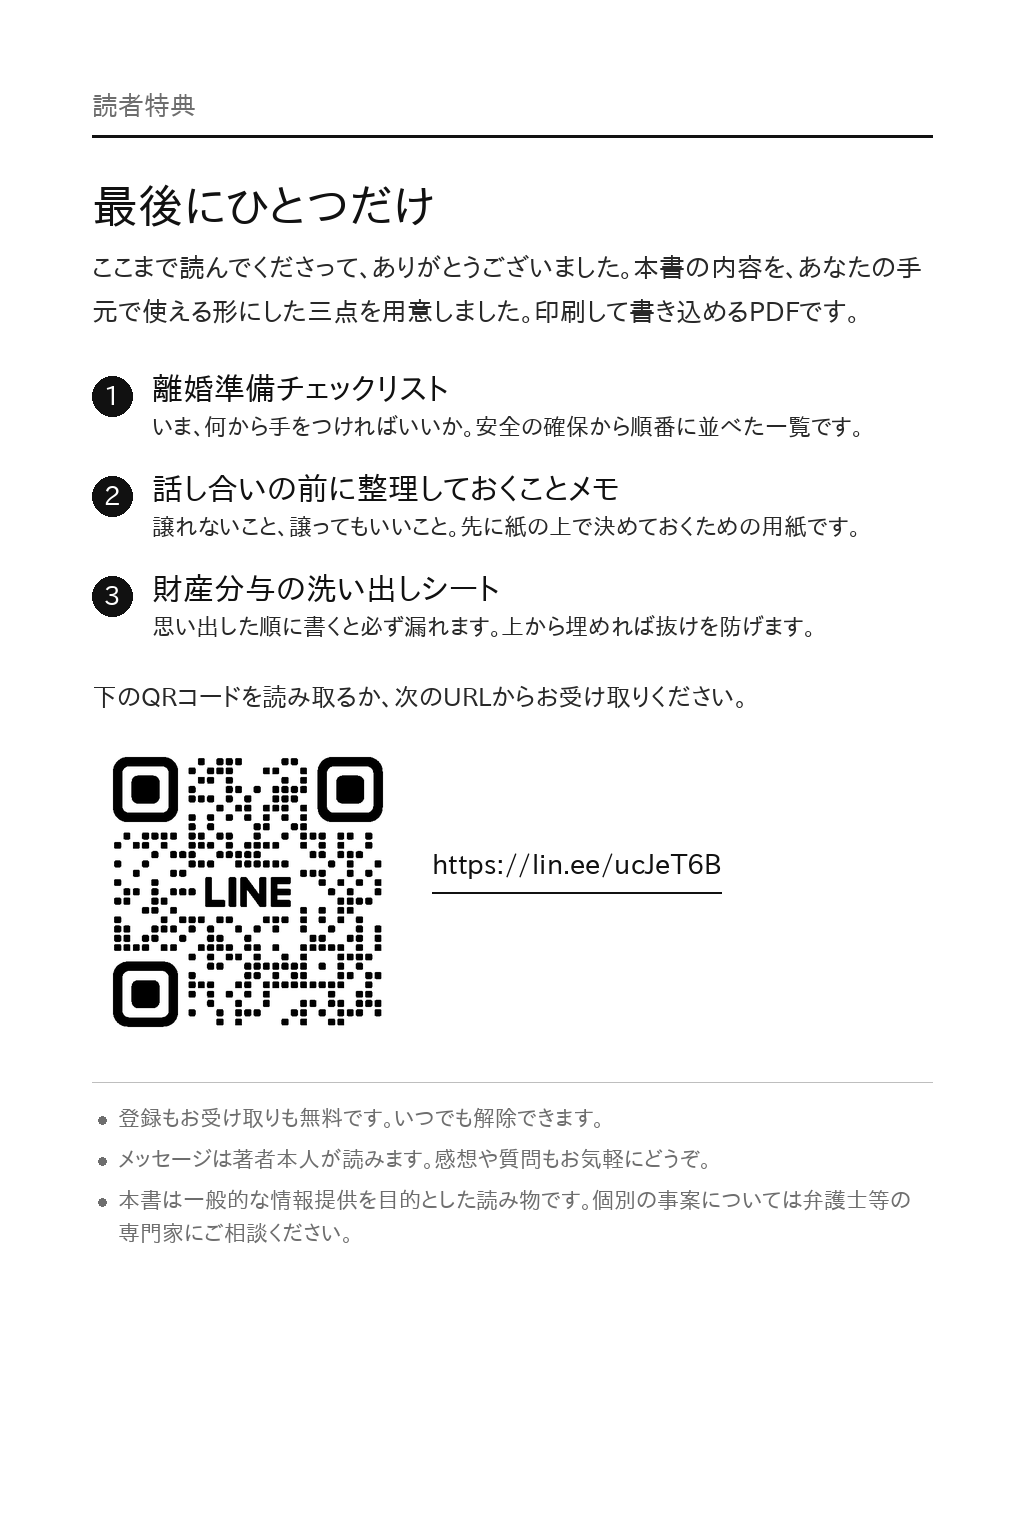
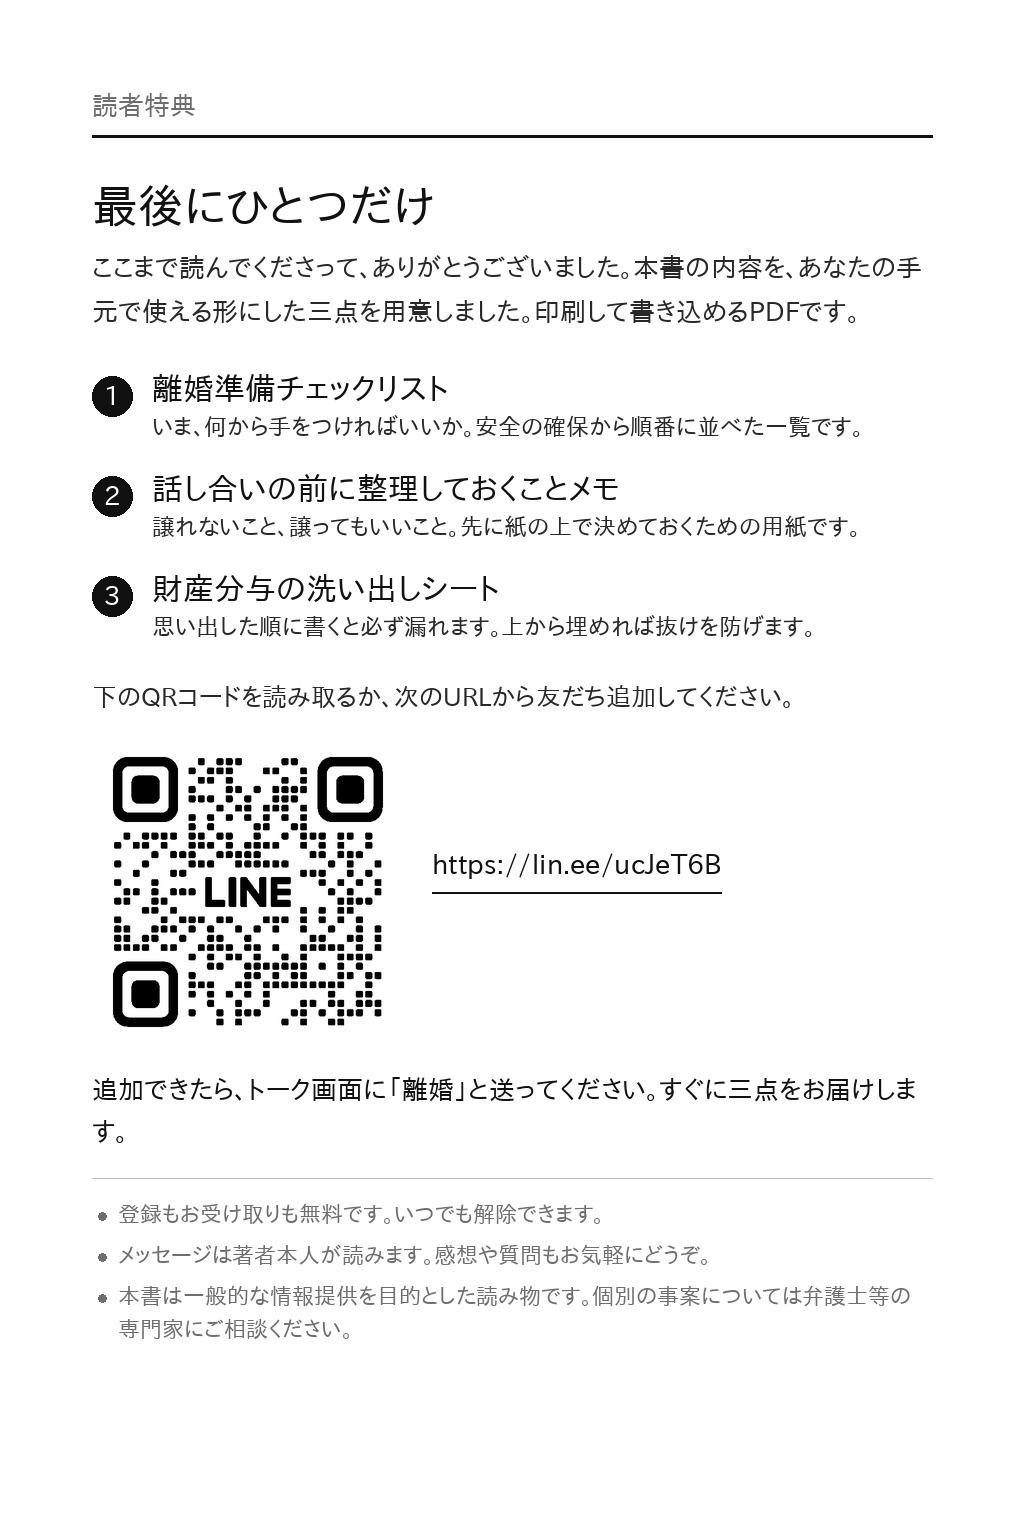
読者特典ページに合言葉「離婚」の案内を追加
公式LINEを2冊で共用しているため、あいさつメッセージから特典を出し分ける。
巻末ページにも、友だち追加のあとに送る合言葉を明記した。

Claude-Session: https://claude.ai/code/session_01RehQqAqUP15LkEuQF6AaFp

Changed region(s): [[0.0938, 0.6875, 0.9062, 0.875], [0.5312, 0.4375, 0.75, 0.4688]]

diff --git a/manga/interlude/back_text.py b/manga/interlude/back_text.py
@@ -38,9 +38,11 @@ LINE = dict(
         ("財産分与の洗い出しシート",
          "思い出した順に書くと必ず漏れます。上から埋めれば抜けを防げます。"),
     ],
-    how="下のQRコードを読み取るか、次のURLからお受け取りください。",
+    how="下のQRコードを読み取るか、次のURLから友だち追加してください。",
     url="https://lin.ee/ucJeT6B",
     qr="assets/line_qr.png",
+    after="追加できたら、トーク画面に「離婚」と送ってください。"
+          "すぐに三点をお届けします。",
     notes=[
         "登録もお受け取りも無料です。いつでも解除できます。",
         "メッセージは著者本人が読みます。感想や質問もお気軽にどうぞ。",

diff --git a/manga/interlude/render_back.py b/manga/interlude/render_back.py
@@ -123,7 +123,15 @@ def line_page():
     d.text((ux, y + 108), LINE["url"], font=f_u, fill=INK)
     d.line([(ux, y + 150), (ux + d.textlength(LINE["url"], font=f_u), y + 150)],
            fill=INK, width=2)
-    y += 300 + 40
+    y += 300 + 34
+
+    # 合言葉の案内
+    if LINE.get("after"):
+        f_a = font(26)
+        for ln in wrap(d, LINE["after"], f_a, inner):
+            d.text((MARGIN, y), ln, font=f_a, fill=INK)
+            y += 42
+        y += 18
 
     # 注意書き
     d.line([(MARGIN, y), (W - MARGIN, y)], fill=(190, 190, 190), width=1)
